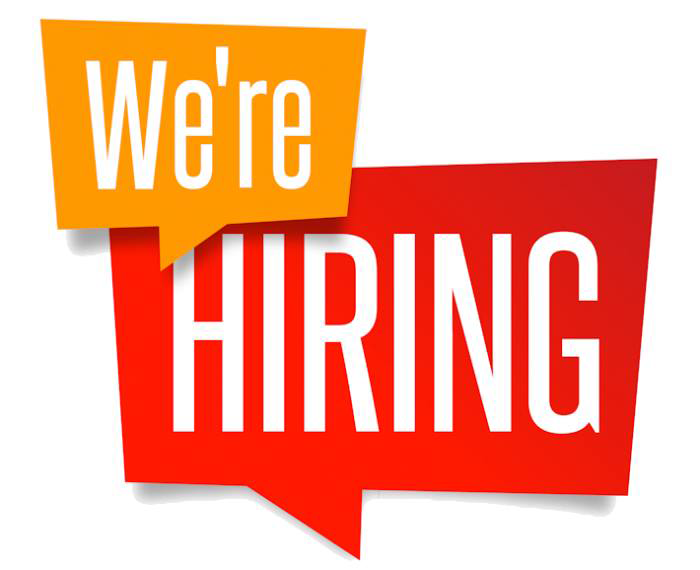
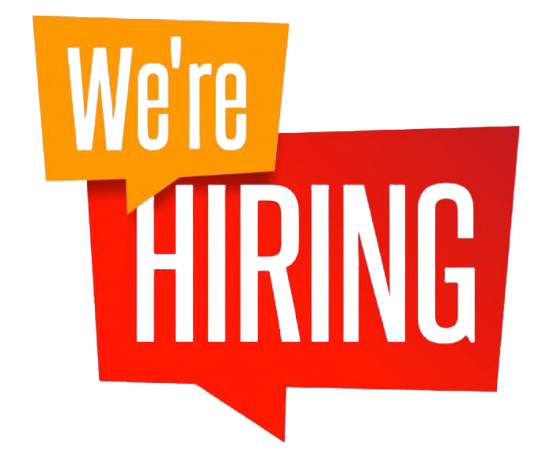
Improve Careers Get in Touch image layout

diff --git a/careers.html b/careers.html
@@ -107,7 +107,7 @@
                     <div class="career-empty" data-careers-empty hidden><h3>No Current Openings</h3><p>Please check back for future career opportunities.</p></div>
                 </div>
             </section>
-            <section class="section" aria-labelledby="application-heading"><div class="container career-contact-layout"><div class="career-contact-image"><img src="assets/img/careers/careers-get-in-touch.png" alt="Supplied recruitment graphic reading We're Hiring" width="700" height="570" loading="lazy" decoding="async"></div><div class="career-application"><p class="eyebrow">GET IN TOUCH</p><h2 id="application-heading">Interested in Joining Us?</h2><div data-careers-application></div><noscript><p>Send your application with a photo to <a href="mailto:job.blindsxpert@gmail.com">job.blindsxpert@gmail.com</a>.</p></noscript></div></div></section>
+            <section class="section" aria-labelledby="application-heading"><div class="container career-contact-layout"><img class="career-contact-image" src="assets/img/careers/careers-get-in-touch.png" alt="Supplied recruitment graphic reading We're Hiring" width="554" height="451" loading="lazy" decoding="async"><div class="career-application"><p class="eyebrow">GET IN TOUCH</p><h2 id="application-heading">Interested in Joining Us?</h2><div data-careers-application></div><noscript><p>Send your application with a photo to <a href="mailto:job.blindsxpert@gmail.com">job.blindsxpert@gmail.com</a>.</p></noscript></div></div></section>
         </main>
 
         <footer class="footer">

diff --git a/assets/css/careers.css b/assets/css/careers.css
@@ -38,8 +38,9 @@
 @media (max-width: 600px) { .careers-grid { grid-template-columns: minmax(0,1fr); } .career-card,.career-empty { padding: 24px; } }
 
 /* Supplied recruitment artwork and verified email share one responsive section. */
-.career-contact-layout { display: grid; grid-template-columns: minmax(0,.95fr) minmax(0,1.05fr); gap: 48px; align-items: center; }
-.career-contact-image { width: 100%; aspect-ratio: 700 / 570; overflow: hidden; border: 1px solid var(--border-light); border-radius: 4px; background: #fff; }
-.career-contact-image img { display: block; width: 100%; height: 100%; object-fit: cover; }
+.career-contact-layout { display: grid; grid-template-columns: minmax(0,300px) minmax(0,1fr); gap: 48px; align-items: center; }
+.career-contact-image { display: block; width: 100%; max-width: 300px; height: auto; object-fit: contain; margin-inline: auto; }
 .career-contact-layout .career-application { width: 100%; min-width: 0; }
-@media (max-width: 760px) { .career-contact-layout { grid-template-columns: minmax(0,1fr); gap: 28px; } .career-contact-image { max-width: 500px; } }
+@media (max-width: 1000px) { .career-contact-layout { grid-template-columns: minmax(0,250px) minmax(0,1fr); gap: 32px; } .career-contact-image { max-width: 250px; } }
+@media (max-width: 760px) { .career-contact-layout { grid-template-columns: minmax(0,1fr); gap: 28px; } }
+@media (max-width: 600px) { .career-contact-image { max-width: 200px; } }
